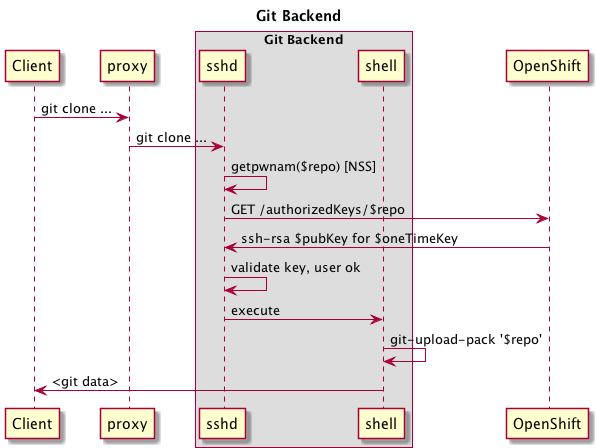
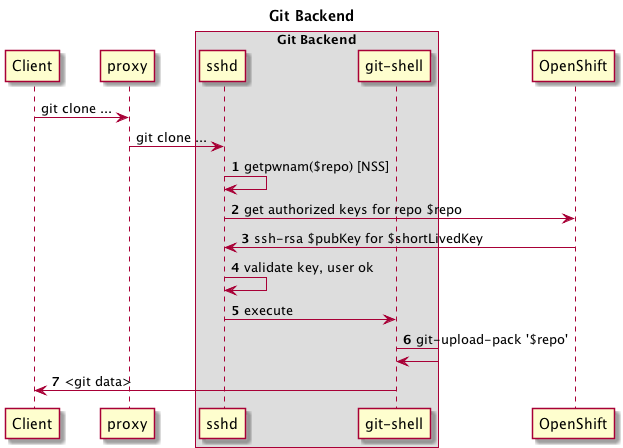
wip

diff --git a/openshift-pep-014-ssh-proxy.md b/openshift-pep-014-ssh-proxy.md
@@ -1,13 +1,13 @@
-PEP: *number assigned by the arch board*  
+PEP: 014  
 Title: OpenShift 3 SSH Proxy  
 Status: draft  
 Author: Andy Goldstein <agoldste@redhat.com>  
-Arch Priority: low|medium|high  
-Complexity: 8, 13, 20, 40, 100 *story points*  
-Affected Components: *web, api, runtime, cartridges, broker, admin_tools, cli*  
-Affected Teams: Runtime (0-5), UI (0-5), Broker (0-5), Enterprise (0-5)  
-User Impact: low|medium|high  
-Epic: *url to a story, wiki page, or doc*  
+Arch Priority: medium  
+Complexity: 20  
+Affected Components: apiserver  
+Affected Teams: Runtime, Infrastructure  
+User Impact: low  
+Epic: [SCM](https://trello.com/c/L1Df40pk/68-source-control-management-scm)
 
 Abstract
 --------
@@ -27,7 +27,11 @@ The SSH proxy is comprised of the following pieces:
 
 - sshd from OpenSSH
 - a custom AuthorizedKeysCommand
-- a custom executable to perform the proxying logic
+- a custom executable to perform the proxying logic, with plugins to support different backend resources
+
+The SSH proxy is essentially stateless, meaning multiple proxies can exist behind a load balancer and/or something like round-robin DNS. Doing so eliminates the proxy layer from being a single point of failure.
+
+--
 
 ### Basic flow
 The SSH proxy accepts incoming requests from remote clients (users), asserts authentication and authorization, and forwards the requests to the appropriate backend cluster resources:
@@ -35,6 +39,8 @@ The SSH proxy accepts incoming requests from remote clients (users), asserts aut
 ![basic flow](images/pep-014-basic-flow.png)
 
 This is a simplified version of what actually happens, as we need to handle authentication, authorization, and determine to which backend resource the original request should be forwarded.
+
+--
 
 ### A deeper dive
 Let's look at what would happen for a Git clone request. First, the client would run a command such as
@@ -49,9 +55,9 @@ where $user is the login for that particular person and $repo specifies the Git 
 
 `sshd` running in the proxy receives the request and performs the following sequence of steps relevant to OpenShift:
 
-![](images/pep-014-proxy.png)
+![proxy](images/pep-014-proxy.png)
 
-#### Step 1: user lookup via NSS
+#### Step 1: lookup user via NSS
 `sshd` looks up information about the user via the `getpwnam` system call. This uses NSS to retrieve the information based on the configuration in `/etc/nsswitch.conf`. The implication of this call is that the user exist in whatever data source NSS uses for the `passwd` database. More on that later...
 
 #### Steps 2 & 3: retrieve user's authorized keys
@@ -72,8 +78,10 @@ After the user has successfully logged in, `sshd` executes the command specified
 #### Steps 6 & 7: determine and execute backend plugin
 The proxy examines `$SSH_ORIGINAL_COMMAND` to determine which backend plugin should handle the remainder of the session. In this example, the command is `git-upload-pack`, which is handled by the Git backend plugin.
 
+Other backend plugins will perform different logic from this point forward. The steps below illustrate what the Git plugin does.
+
 #### Step 8: determine backend resource
-The Git plugin 
+The Git plugin looks at `$SSH_ORIGINAL_COMMAND` to see what repo is being requested. The plugin then asks OpenShift for the URL of the backend pod where the repo lives.
 
 #### Step 9: generate short-lived key
 A user must only be allowed to access backend resources for which he/she has authorization. The user uses something only he/she knows (in this case, a private key) to authenticate to `sshd` in the proxy server, but once that happens, that piece of private data is not available in the proxy server itself (since the private key should only exist on the user's computer).
@@ -83,16 +91,38 @@ At this point, the SSH proxy needs to act as the user's agent to access a backen
 To mitigate this, the proxy creates a new SSH key pair for use solely with the current session.
 
 #### Step 10: upload short-lived key to OpenShift
-The plugin uploads the short-lived public key to OpenShift using the `$USER_REF` environment variable that was set as part of the authorized keys lookup above. This short-lived key grants the SSH proxy access to a specific backend resource for a very short amount of time. After the short-lived key has expired, OpenShift removes it automatically.
+The plugin attempts to upload the short-lived public key to OpenShift using the `$USER_REF` environment variable that was set as part of the authorized keys lookup above. This short-lived key grants the SSH proxy access to a specific backend resource for a very short amount of time. After the short-lived key has expired, OpenShift removes it automatically.
+
+OpenShift checks to see if the user is allowed to access the specified Git repository. If so, OpenShift stores the key. If not, OpenShift returns an error to the plugin, and the plugin halts execution and returns the error to the user.
 
 As mentioned before, `$USER_REF` is an auto-generated, random string that uniquely identifies a user. It should never be seen by anyone and only be used by the proxy executable. If a user did manage to see his/her `$USER_REF`, the only thing he/she could do with this knowledge would be to upload short-lived keys for resources the user is already authorized to access. If an attacker managed to see another user's `$USER_REF`, that would be a problem, as it would allow the attacker to gain access to the other user's backend resources. That is why it is critical that one user's `$USER_REF` value is not visible to other user's in the SSH proxy server. This isolation is achieved using SELinux and unique MCS labels per user; see the section on MCS labels below for more information.
 
 #### Step 11: forward request to backend resource
+The plugin next forwards the original request to the backend pod that has the repo.
 
-### SSH proxy - sshd
-sshd is the SSH server daemon the proxy uses to accept incoming SSH requests from remote clients.
+--
 
-To facilitate user audit logging and process isolation, the SSH proxy requires that a user use his/her own unique login when connecting to the proxy. Each Linux user gets its unique MCS label for SELinux; this is set as early as possible during the login process.
+### Backend flow - Git
+![](images/pep-014-backend.png)
+
+#### Step 1: lookup user ($repo) via NSS
+`sshd` looks up information about the user (in this case, the $repo) via the `getpwnam` system call. Each repo will have its own entry in `/etc/passwd`, managed by a helper process (see below for more information).
+
+#### Steps 2 & 3: get authorized keys for $repo
+`sshd` in the Git backend is configured to use a custom `AuthorizedKeysCommand` to look up public keys for $repo. This command runs as the user specified by `AuthorizedKeysCommandUser` - this user should only be used to perform this action. The custom `AuthorizedKeysCommand` makes a secure request to OpenShift to retrieve the public keys. The reason this command must run as a separate user is so that only this user is allowed to query OpenShift for the public keys for $repo. The `AuthorizedKeysCommandUser` has the appropriate permissions to ask OpenShift for public keys for all repos (via a private SSL client certificate, a private token, or any other private means). This ensures the proxy, acting as a real user's agent, is only authorized to access the repositories the real user is allowed to see.
+
+OpenShift returns a list of the public keys for the repository in question.
+
+#### Step 4: validate short-lived key
+Using the public keys retrieved above, `sshd` determines if the proxy is authorized or not.
+
+#### Step 5: execute shell
+`sshd` executes the repository user's shell, `git-shell`
+
+#### Steps 6 & 7: handle Git request
+`git-shell` handles the Git request and returns the data back through the proxy to the client.
+
+--
 
 ### passwd entries / getpwnam() / nsswitch
 sshd requires that all users exist in the passwd database; more specifically, it must be possible to retrieve information for a user via the `getpwnam` method call. This method retrieves data from the sources specified in the `/etc/nsswitch.conf` file; the most common sources are probably:
@@ -100,41 +130,32 @@ sshd requires that all users exist in the passwd database; more specifically, it
 - the `/etc/passwd` file
 - LDAP
 
-While the `/etc/passwd` file has less setup overhead than something like LDAP, especially for small deployments, this file would need to be  updated any time a user is added or removed to OpenShift's user database (TODO: .
-
-### TODO non-human access to project resources???
-can i from the UI add any ssh public key or token as having access to my git repo?
-how to map the key back to a user?
-entitled to access project's resources, but not a human
+While the `/etc/passwd` file has less setup overhead than something like LDAP, especially for small deployments, this file would need to be updated any time a user is added or removed to OpenShift's user database.
 
 ### MCS label assignment
 TODO
 
 ### Changes to OpenShift API
 - need to be able to store/retrieve public keys for users
-- need to be able to store/retrieve temporary public keys
+- need to be able to store/retrieve short-lived keys, scoped to a specific resource
 
-### need to address
-- kerberos
-- ldap for user & key mgmt?
-- password/token auth
-- load balancing
-- nss/getpwnam
+### SSSD integration?
+TODO
 
-### rest
-- can have multiple instances for redundancy sitting behind a load balancer
-- [sshd] gets user info via getpwnam / NSS
-- [sshd] invokes a custom AuthorizedKeysCommand to retrieve public keys from OpenShift for $project
-- OpenShift returns public keys allowed to access $project, including a “user reference” environment variable for each key
-- “User reference” is an unguessable string used to uniquely identify the user a particular key belongs to
-- [sshd] launches custom login shell for $project (each process needs its own unique MCS label)
-- custom login shell is an executable we write that handles communicating with the appropriate backend container
-- [shell] generates single-use keypair and uploads it to OpenShift using “user reference” to specify the user
-	- this is to make it as close to impossible as we can for a hacker who breaks out of the shell to generate key pairs for accessing other projects/users
-- [shell] hands off control to a “Git plugin”
-- [git plugin] queries OpenShift to determine in which Git backend container the repo lives
-- [git plugin] uses single-use key to SSH to Git backend
+### Kerberos for authentication
+TODO
 
+### Token ("password") for authentication
+TODO
+
+### Git repository provisioning & management
+TODO
+
+### Non-human access to project resources
+TODO
+- Can I from the UI add any ssh public key or token as having access to my git repo?
+- How to map the key back to a user?
+- Desire is to be able to give a non-human access to a project's resources
 
 Rationale
 ---------
